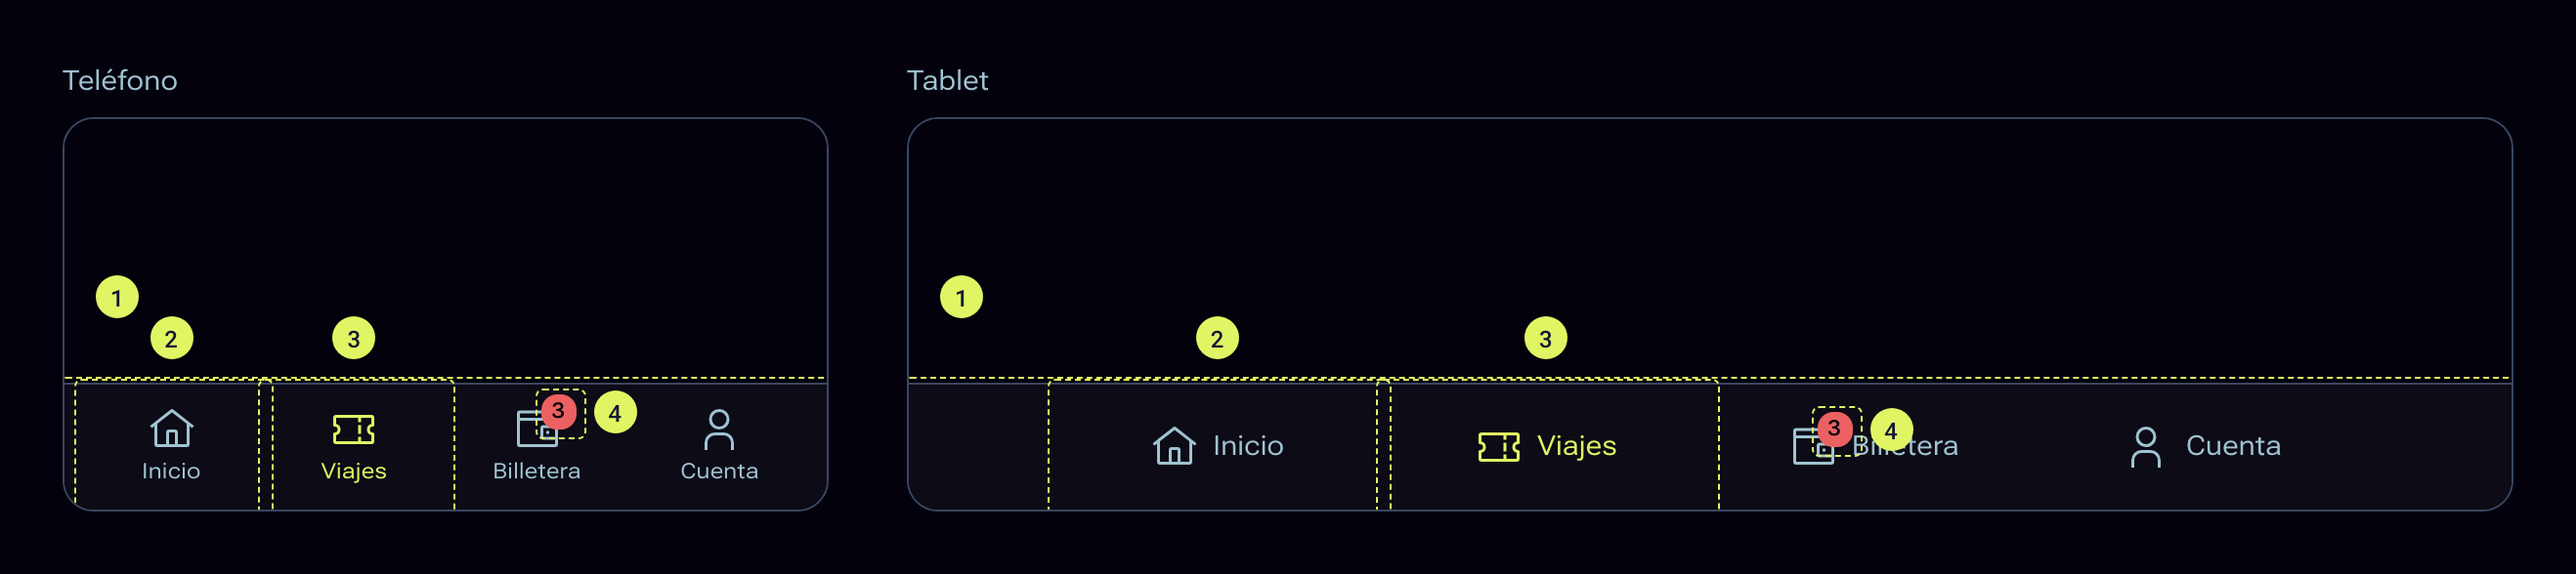
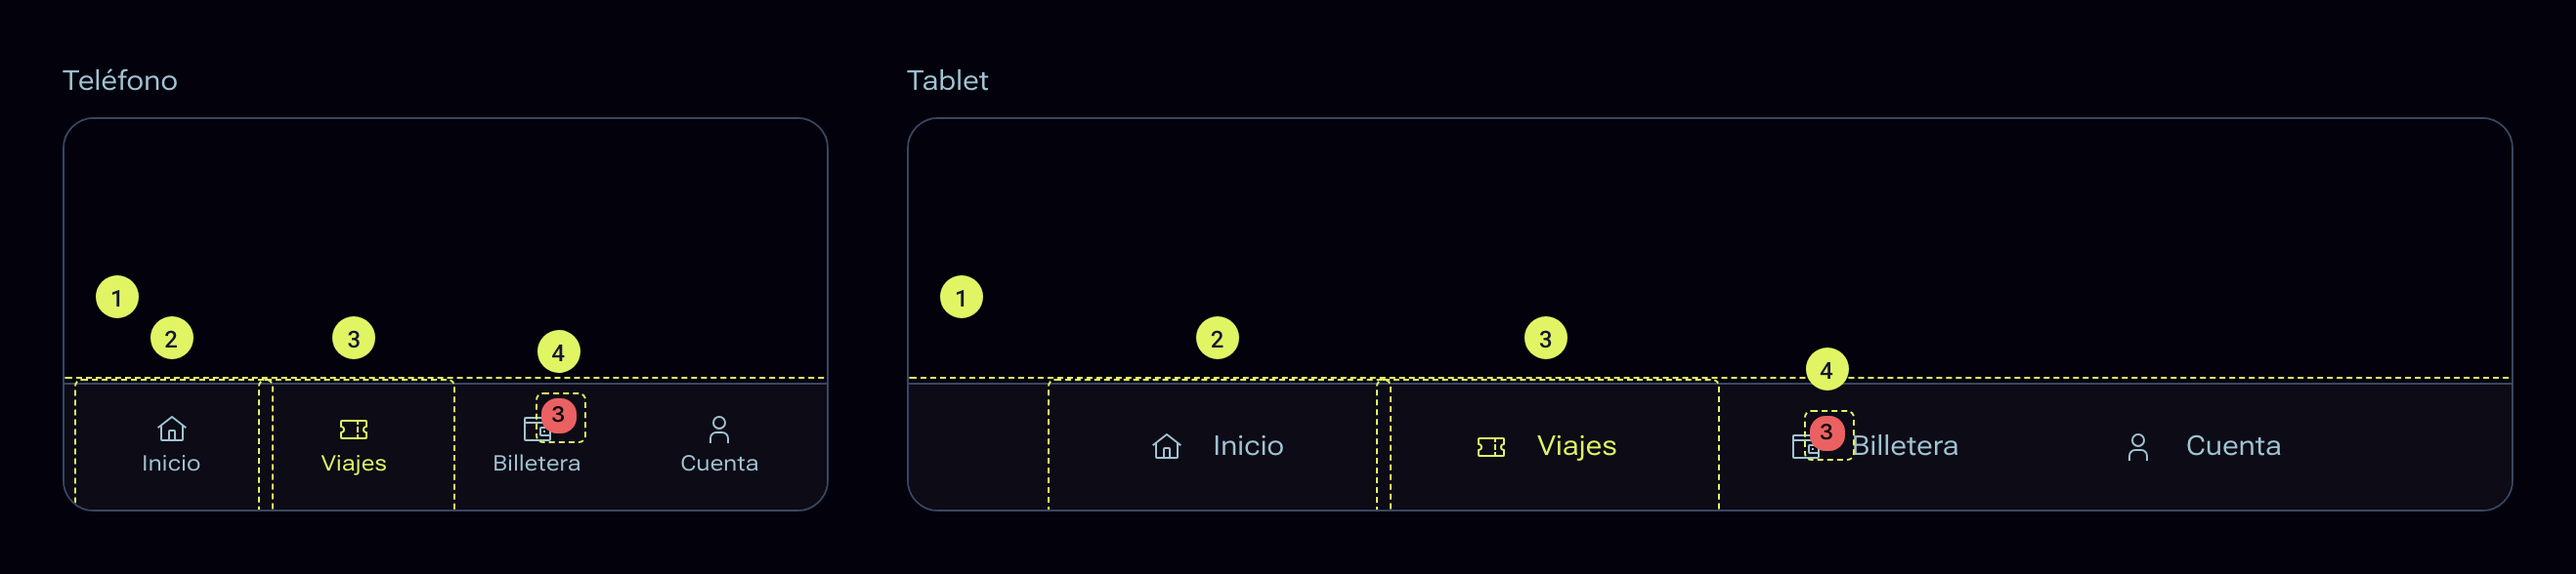
feat(componentes): íconos de TabBar a 16 px
Ícono icon-size-sm, como Sidebar y los menús. En fila (desde 672 px) queda a
16 px de la etiqueta; apilado, a 2 px. La insignia se reubica sobre la
esquina superior derecha del ícono más chico para no tapar la etiqueta.

diff --git a/artifact/project/components/bundle.css b/artifact/project/components/bundle.css
@@ -281,7 +281,7 @@ html { font-family: var(--font-flex); font-weight: var(--font-weight-body, 400);
 .alma-tabs__panel:focus-visible { outline: 2px solid var(--focus); outline-offset: 2px; border-radius: var(--radius-chip); }
 
 /* ---------- Badge (Apple: red oval, critical info only) ---------- */
-.alma-badge { position: absolute; top: -6px; left: 14px; min-width: 18px; height: 18px; padding: 0 5px; box-sizing: border-box; border-radius: var(--radius-tag); background: var(--badge-bg); color: var(--badge-text); font-size: 0.6875rem; line-height: 18px; font-weight: var(--font-weight-emphasis); text-align: center; }
+.alma-badge { position: absolute; top: -8px; left: 10px; min-width: 18px; height: 18px; padding: 0 5px; box-sizing: border-box; border-radius: var(--radius-tag); background: var(--badge-bg); color: var(--badge-text); font-size: 0.6875rem; line-height: 18px; font-weight: var(--font-weight-emphasis); text-align: center; }
 
 /* ---------- TabBar (Apple tab bar) ---------- */
 .alma-tabbar { background: var(--tab-bar-bg); border-top: 1px solid var(--tab-bar-border); padding-bottom: env(safe-area-inset-bottom, 0px); }
@@ -292,7 +292,7 @@ html { font-family: var(--font-flex); font-weight: var(--font-weight-body, 400);
 .alma-tabbar__item.is-on { color: var(--tab-bar-text-selected); }
 .alma-tabbar__item:focus-visible { outline: 2px solid var(--focus); outline-offset: -2px; }
 .alma-tabbar__icon { position: relative; display: flex; }
-@media (min-width: 672px) { .alma-tabbar__item { flex-direction: row; gap: var(--space-8); font-size: 0.875rem; letter-spacing: 0.14px; } }
+@media (min-width: 672px) { .alma-tabbar__item { flex-direction: row; gap: var(--space-16); font-size: 0.875rem; letter-spacing: 0.14px; } }
 
 /* ---------- Sidebar (Apple sidebar) ---------- */
 .alma-side-wrap { display: flex; flex-direction: column; align-items: flex-start; gap: var(--space-8); }

diff --git a/artifact/project/components/bundle.js b/artifact/project/components/bundle.js
@@ -496,7 +496,7 @@
             h('a', { href: it.href || '#', className: 'alma-tabbar__item' + (on ? ' is-on' : ''), 'aria-current': on ? 'page' : undefined,
               'aria-label': badgeLabel(it.label, it.badge),
               onClick: function (e) { if (!it.href) e.preventDefault(); s[1](it.value); if (props.onChange) props.onChange(it.value); } },
-              h('span', { className: 'alma-tabbar__icon' }, h(AlmaIcon, { name: it.icon, variant: on ? 'filled' : 'outlined' }), h(Badge, { count: it.badge })),
+              h('span', { className: 'alma-tabbar__icon' }, h(AlmaIcon, { name: it.icon, size: 16, variant: on ? 'filled' : 'outlined' }), h(Badge, { count: it.badge })),
               h('span', { className: 'alma-tabbar__label' }, it.label)));
         }))
     );

diff --git a/artifact/project/Documentacion.md b/artifact/project/Documentacion.md
@@ -6,6 +6,7 @@ Lo último que cambió en ALMA, de lo más reciente a lo más antiguo. El detall
 
 ### 30 de septiembre de 2026
 
+- **Íconos de TabBar a 16 px.** Pasan de 24 px a `icon-size-sm`, como en Sidebar y los menús. En fila (desde 672 px) el ícono queda a 16 px de la etiqueta; apilados, en el teléfono, siguen a 2 px.
 - **Íconos de los menús a 16 px.** Los menús de PopUpButton y PullDownButton, la lista de Combobox y las sugerencias de SearchField siguen la regla del Sidebar: ícono o marca de 16 px (`icon-size-sm`), 16 px hasta el texto y 16 px de relleno a los lados.
 - **Imágenes de los patrones.** Las 16 imágenes pendientes de los patrones ya existen, hechas con los componentes reales: formularios, estados vacíos, la escala de las notificaciones, carga, búsqueda, las cuatro capas de diálogo, acciones, desactivado, contenido que desborda, encabezado global, inicio de sesión, indicadores de estado, barra de texto, etiquetas de los campos y divulgación. Ya no quedan imágenes pendientes.
 - **Íconos del Sidebar a 16 px.** Pasan de 24 px a `icon-size-sm` (16 px), el mismo valor que su separación de la etiqueta, para que se perciban equilibrados y no pesen más que el texto.

diff --git a/docs/novedades.md b/docs/novedades.md
@@ -4,6 +4,7 @@ Lo último que cambió en ALMA, de lo más reciente a lo más antiguo. El detall
 
 ## 30 de septiembre de 2026
 
+- **Íconos de TabBar a 16 px.** Pasan de 24 px a `icon-size-sm`, como en Sidebar y los menús. En fila (desde 672 px) el ícono queda a 16 px de la etiqueta; apilados, en el teléfono, siguen a 2 px.
 - **Íconos de los menús a 16 px.** Los menús de PopUpButton y PullDownButton, la lista de Combobox y las sugerencias de SearchField siguen la regla del Sidebar: ícono o marca de 16 px (`icon-size-sm`), 16 px hasta el texto y 16 px de relleno a los lados.
 - **Imágenes de los patrones.** Las 16 imágenes pendientes de los patrones ya existen, hechas con los componentes reales: formularios, estados vacíos, la escala de las notificaciones, carga, búsqueda, las cuatro capas de diálogo, acciones, desactivado, contenido que desborda, encabezado global, inicio de sesión, indicadores de estado, barra de texto, etiquetas de los campos y divulgación. Ya no quedan imágenes pendientes.
 - **Íconos del Sidebar a 16 px.** Pasan de 24 px a `icon-size-sm` (16 px), el mismo valor que su separación de la etiqueta, para que se perciban equilibrados y no pesen más que el texto.

diff --git a/artifact/project/components/TabBar/README.md b/artifact/project/components/TabBar/README.md
@@ -89,8 +89,10 @@ Una barra inferior para moverse entre las secciones principales de la app en el 
 | Ítem | ancho | repartido en partes iguales |
 | Ítem | alto mínimo | 56 px |
 | Ítem | radio | `radius-panel` |
-| Ícono y etiqueta | separación | 2 px (apilados) · 8 px (en fila) |
+| Ícono | tamaño | 16 px (`icon-size-sm`), como en `Sidebar` y los menús |
+| Ícono y etiqueta | separación | 2 px (apilados) · 16 px (en fila, igual al ícono) |
 | Insignia | alto, ancho mínimo | 18 px, 18 px; `radius-tag` |
+| Insignia | posición | sobre la esquina superior derecha del ícono (8 px arriba, 10 px desde su borde izquierdo) |
 
 ![Medidas de TabBar en el teléfono: alto de la barra, alto y ancho de cada ítem, separación entre ícono y etiqueta, e insignia de 18 px.](assets/Componentes/tab-bar-medidas.png)
 

diff --git a/docs/components/tab-bar/style.md b/docs/components/tab-bar/style.md
@@ -36,8 +36,10 @@ summary: Especificaciones visuales de la barra de pestañas.
 | Ítem | ancho | repartido en partes iguales |
 | Ítem | alto mínimo | 56 px |
 | Ítem | radio | `radius-panel` |
-| Ícono y etiqueta | separación | 2 px (apilados) · 8 px (en fila) |
+| Ícono | tamaño | 16 px (`icon-size-sm`), como en `Sidebar` y los menús |
+| Ícono y etiqueta | separación | 2 px (apilados) · 16 px (en fila, igual al ícono) |
 | Insignia | alto, ancho mínimo | 18 px, 18 px; `radius-tag` |
+| Insignia | posición | sobre la esquina superior derecha del ícono (8 px arriba, 10 px desde su borde izquierdo) |
 
 ![Medidas de TabBar en el teléfono: alto de la barra, alto y ancho de cada ítem, separación entre ícono y etiqueta, e insignia de 18 px.](assets/Componentes/tab-bar-medidas.png)
 
